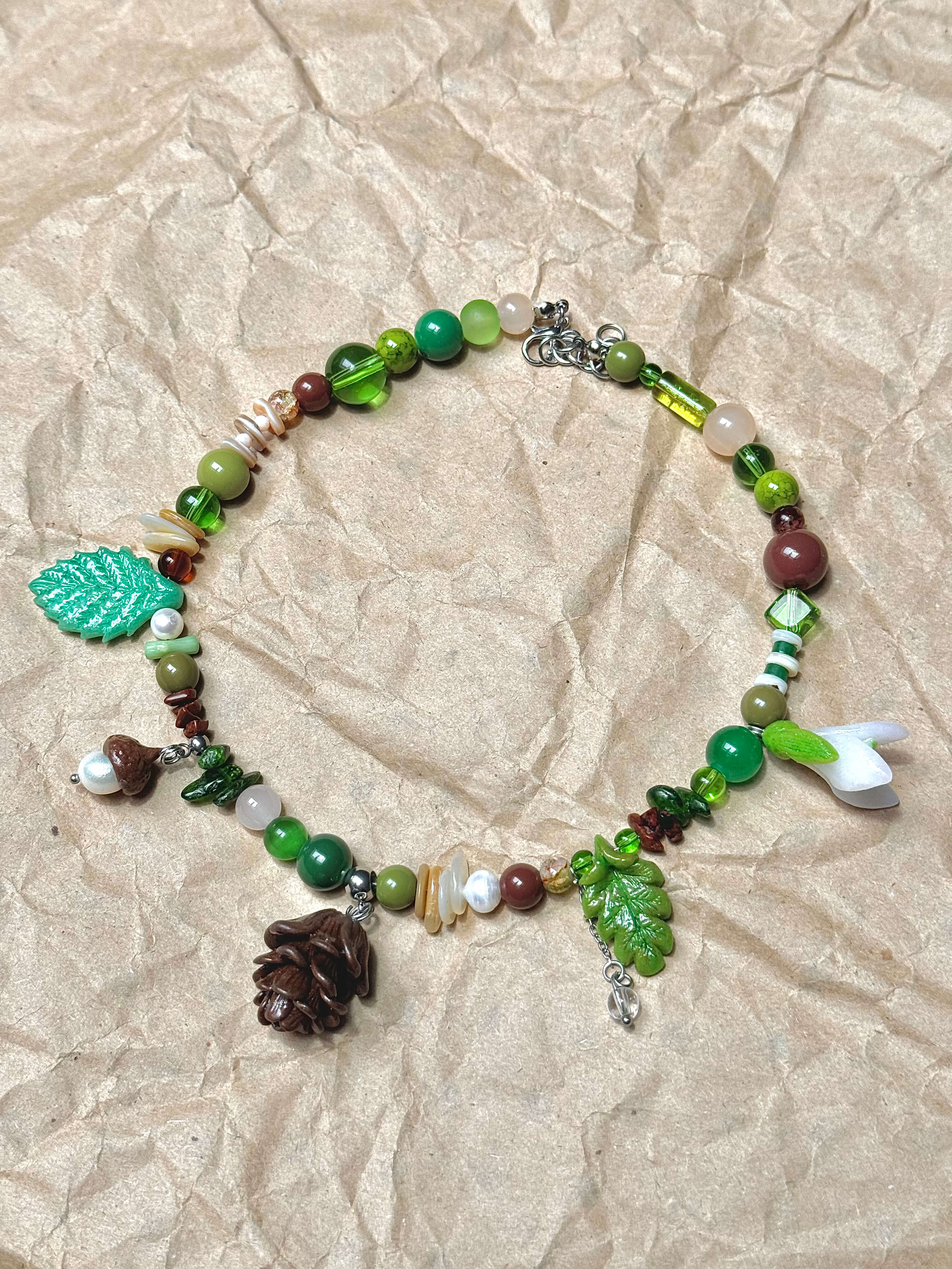
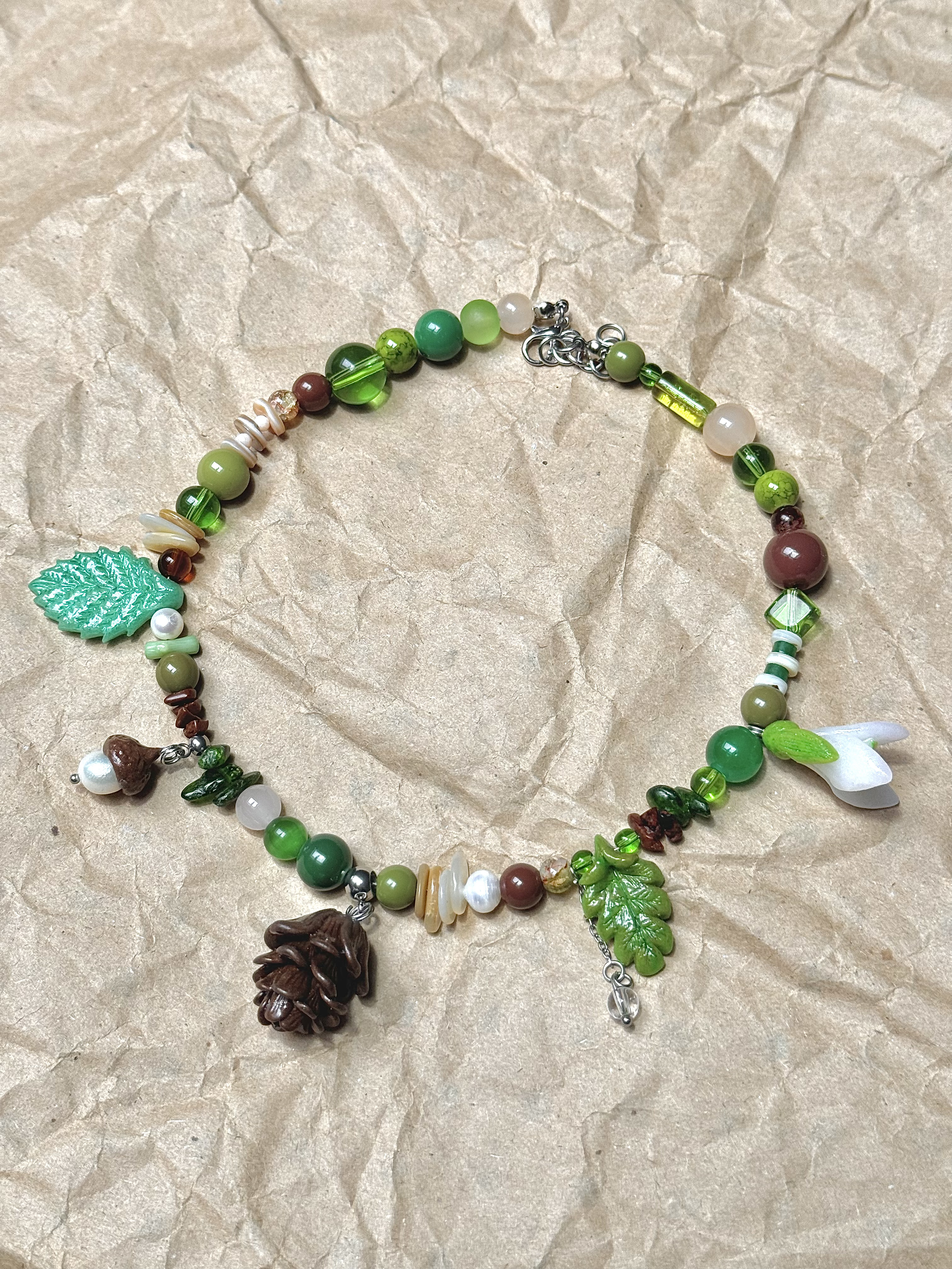
add

diff --git a/pages/native-cities.html b/pages/native-cities.html
@@ -70,7 +70,7 @@
           catalogItems: [
             {
               name: 'Луганськ',
-              price: 1080
+              price: 1180
             }
           ],
           href: 'https://www.instagram.com/p/DExUTjKtTF7/?img_index=1'
@@ -80,11 +80,33 @@
           imgAlt: 'Намисто натхненне містом Донецьк',
           catalogItems: [
             {
-              name: 'Донецьк',
-              price: 900
+              name: 'намисто Донецьк',
+              price: 980
             }
           ],
           href: 'https://www.instagram.com/p/DDZR4jVNl32/'
+        },
+        {
+          imgSrc: '../assets/images/pages/cities/bracelet_Donetsk.jpgG',
+          imgAlt: 'Браслет натхненне містом Донецьк',
+          catalogItems: [
+            {
+              name: 'браслет Донецьк',
+              price: 880
+            }
+          ],
+          href: 'https://www.instagram.com/p/DGiPpSwN6hL/?img_index=1'
+        },
+        {
+          imgSrc: '../assets/images/pages/cities/Crimea.jpg',
+          imgAlt: 'Намисто натхненне Кримом',
+          catalogItems: [
+            {
+              name: 'Крим',
+              price: 1380
+            }
+          ],
+          href: 'https://www.instagram.com/p/DJ2GTeOtMu9/'
         },
         {
           imgSrc: '../assets/images/pages/cities/Zaporizhia.jpg',
@@ -109,26 +131,70 @@
           href: 'https://www.instagram.com/p/DGVgpeTNIno/?img_index=1'
         },
         {
+          imgSrc: '../assets/images/pages/cities/Poltava.jpg',
+          imgAlt: 'Намисто натхненне містом Полтава',
+          catalogItems: [
+            {
+              name: 'Полтава',
+              price: 1380
+            }
+          ],
+          href: 'https://www.instagram.com/p/DJd6dM-NYCK/?img_index=1'
+        },
+        {
+          imgSrc: '../assets/images/pages/cities/Dykanka.jpg',
+          imgAlt: 'Намисто натхненне містом Диканька',
+          catalogItems: [
+            {
+              name: 'Диканька',
+              price: 1280
+            }
+          ],
+          href: 'https://www.instagram.com/p/DJd6dM-NYCK/?img_index=2'
+        },
+        {
           imgSrc: '../assets/images/pages/cities/Mariupol.jpg',
           imgAlt: 'Намисто натхненне містом Маріуполь',
           catalogItems: [
             {
-              name: 'Маріуполь',
+              name: 'намисто Маріуполь',
               price: 980
             }
           ],
           href: 'https://www.instagram.com/p/DEpZmACN_Tz/'
         },
         {
+          imgSrc: '../assets/images/pages/cities/bracelet_Mariupol.jpg',
+          imgAlt: 'Браслет натхненний містом Маріуполь',
+          catalogItems: [
+            {
+              name: 'браслет Маріуполь',
+              price: 880
+            }
+          ],
+          href: 'https://www.instagram.com/p/DGiPpSwN6hL/?img_index=3'
+        },
+        {
           imgSrc: '../assets/images/pages/cities/Kharkiv.JPG',
           imgAlt: 'Намисто натхненне містом Харків',
           catalogItems: [
             {
-              name: 'Харків',
-              price: 900
+              name: 'намисто Харків',
+              price: 980
             }
           ],
           href: 'https://www.instagram.com/p/DCbVWNVtfo_/?img_index=1'
+        },
+        {
+          imgSrc: '../assets/images/pages/cities/bracelet_Kharkiv.jpg',
+          imgAlt: 'браслет натхненний містом Харків',
+          catalogItems: [
+            {
+              name: 'браслет Харків',
+              price: 880
+            }
+          ],
+          href: 'https://www.instagram.com/p/DGiPpSwN6hL/?img_index=2'
         },
         {
           imgSrc: '../assets/images/pages/cities/Lysychansk.JPG',
@@ -202,7 +268,7 @@
           catalogItems: [
             {
               name: 'Набка',
-              price: 900
+              price: 980
             }
           ],
           href: 'https://www.instagram.com/p/DA_KLB9tin5/?img_index=1'
@@ -213,7 +279,7 @@
           catalogItems: [
             {
               name: 'Одеса',
-              price: 900
+              price: 980
             }
           ],
           href: 'https://www.instagram.com/p/C-1592-t7mB/?img_index=1'
@@ -235,7 +301,7 @@
           catalogItems: [
             {
               name: 'Вінниця',
-              price: 980
+              price: 1080
             }
           ],
           href: 'https://www.instagram.com/p/DIlQXbNNfy9/?img_index=3'

diff --git a/pages/sunny-necklaces.html b/pages/sunny-necklaces.html
@@ -142,23 +142,15 @@
           href: 'https://www.instagram.com/p/CxS6H8RtBBP/?img_index=1'
         },
         {
-          imgSrc: '../assets/images/pages/sunny necklaces/green forest.JPG',
+          imgSrc: '../assets/images/pages/sunny necklaces/green_forest.jpg',
           imgAlt: 'Намисто натхненне весняним лісом',
           catalogItems: [
             {
-              name: 'намисто Весняний ліс',
-              price: 850
-            },
-            {
-              name: 'кулон Синичка',
-              price: 500
-            },
-            {
-              name: 'набір',
-              price: 1200
+              name: 'Набір Весняний ліс',
+              price: 1480
             }
           ],
-          href: 'https://www.instagram.com/p/CqLd14ztO-o/?img_index=1'
+          href: 'https://www.instagram.com/p/DJoISaHNeCS/?img_index=1'
         }
       ];
 

diff --git a/pages/cold-necklaces.html b/pages/cold-necklaces.html
@@ -81,7 +81,7 @@
           catalogItems: [
             {
               name: 'Мушля',
-              price: 800
+              price: 950
             }
           ],
           href: 'https://www.instagram.com/p/C8zBkk0NMYt/?img_index=1'
@@ -143,11 +143,11 @@
         },
         {
           imgSrc: '../assets/images/pages/cold/cornflowers.jpg',
-          imgAlt: 'Сережки Волошки',
+          imgAlt: 'Квіткові моносережки',
           catalogItems: [
             {
-              name: 'Сережки Волошки',
-              price: 800
+              name: 'Моносережка Сакура або Волошка',
+              price: 500
             }
           ],
           href: 'hhttps://www.instagram.com/p/CtRkPQtNRc4/?img_index=1'

diff --git a/pages/bright-accents.html b/pages/bright-accents.html
@@ -176,7 +176,18 @@
           imgAlt: 'Намисто для Фіони',
           catalogItems: [
             {
-              name: 'Шрек',
+              name: 'Шрек (літера)',
+              price: 980
+            }
+          ],
+          href: 'https://www.instagram.com/p/C6_B6vztnBX/?img_index=1'
+        },
+        {
+          imgSrc: '../assets/images/pages/bright accents/Shrek_face.jpeg',
+          imgAlt: 'Намисто для Фіони',
+          catalogItems: [
+            {
+              name: 'Шрек (личко)',
               price: 980
             }
           ],

diff --git a/pages/edible-decorations.html b/pages/edible-decorations.html
@@ -208,7 +208,7 @@
           catalogItems: [
             {
               name: 'Гарбуз',
-              price: 800
+              price: 850
             }
           ],
           href: 'https://www.instagram.com/p/CxpQUlXNi1S/'
@@ -234,7 +234,7 @@
           catalogItems: [
             {
               name: 'Лимонад',
-              price: 900
+              price: 1050
             }
           ],
           href: 'https://www.instagram.com/p/C8eteg8NFgs/?img_index=3'

diff --git a/index.html b/index.html
@@ -64,7 +64,7 @@
             <a href="pages/bright-accents.html">твої яскраві акценти</a>
           </li>
           <li class="catalog-item">
-            <a href="assets/pdfs/animal-catalog.pdf" target="_blank" rel="noopener noreferrer">домашні улюбленці</a>
+            <a href="assets/pdfs/chichka_pets.pdf" target="_blank" rel="noopener noreferrer">домашні улюбленці</a>
           </li>
         </ul>
       </nav>
